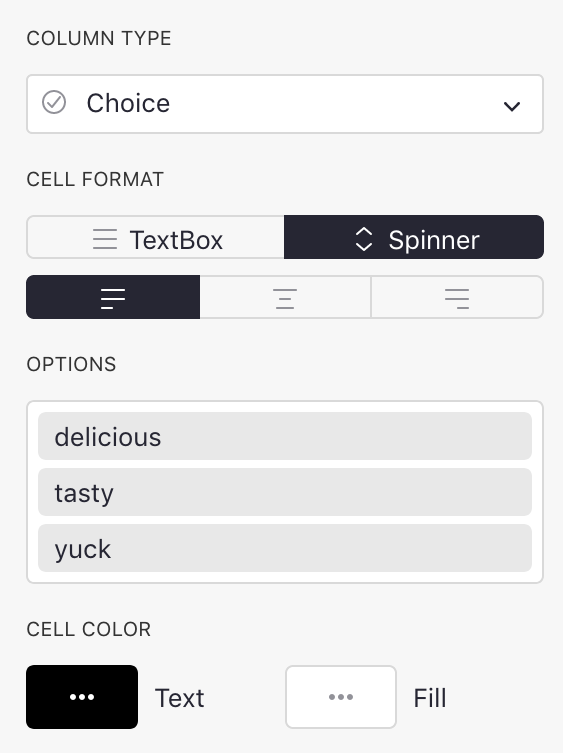
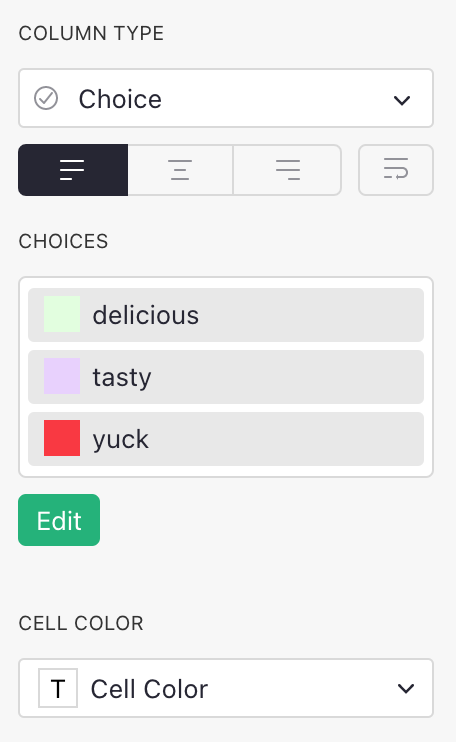
Add documentation for Choice Lists and colors

diff --git a/help/col-types.md b/help/col-types.md
@@ -97,17 +97,18 @@ Grist supports the following types:
 
 <div class='grist-mod__table'></div> <!-- For css styling via css/extra.css -->
 
-Type      | Description
---------- | -----------
-Text      | (**Default**) Any string of text.
-Numeric   | Floating point numbers.
-Integer   | Integers (whole numbers).
-Toggle    | Boolean (True / False)
-Date      | Valid date (without a time component).
-DateTime  | Valid date + time.
-Choice    | List of pre-defined valid values.
-Reference | A reference column to another table.
-Attachment| Cells where you can place files or images.
+Type        | Description
+----------- | -----------
+Text        | (**Default**) Any string of text.
+Numeric     | Floating point numbers.
+Integer     | Integers (whole numbers).
+Toggle      | Boolean (True / False)
+Date        | Valid date (without a time component).
+DateTime    | Valid date + time.
+Choice      | Single value from a list of pre-defined valid values.
+Choice List | Multiple values from a list of pre-defined valid values.
+Reference   | A reference column to another table.
+Attachment  | Cells where you can place files or images.
 
 Text columns
 --------------
@@ -205,16 +206,86 @@ Choice columns
 This type is for storing one of a set of valid values, where you get to
 specify the available values.
 
-<!-- TODO screenshot needs to be updated -->
-*![Format date](images/columns/columns-format-choice.png)*
+*![Format choice](images/columns/columns-format-choice.png)*
 {: .screenshot-half }
 
 There's an example of using this type of column in
 the [Lightweight CRM example](lightweight-crm.md#setting-other-types).
 
 If you start off with a populated text column, Grist will take all unique
-values from that column as the valid choices.  You can add or remove choices
-as you wish.
+values from that column as the valid choices.
+
+You can add or remove choices by either clicking `Edit` or on the Choices box.
+To add a choice, type its value in the text field below the other
+choices and press `Enter`. To remove a choice, click the delete icon to the
+right of the choice or select the choice by clicking on it, and then press
+`Backspace`/`Delete`. To apply/save your changes, you can either click the
+`Save` button or press `Enter`. To discard your changes, you can either
+click the `Cancel` button or press `Escape`.
+
+Clicking the color dropdown to the left of a choice will open a color picker
+for customizing the fill and text color of a choice. Changes to colors are
+reflected inside cells and throughout the rest of Grist once you save your
+changes.
+
+Choices can be re-arranged by clicking and dragging them, which affects the
+order that they are suggested when typing into a cell.
+
+The configuration editor supports many convenient keyboard shortcuts. You can
+press the `Up Arrow` and `Down Arrow` keys to navigate between selected choices;
+hold the `Shift` key to bulk select adjacent choices while clicking or using the
+arrow keys; and hold the `Command`/`Control` key to multi-select choices while
+clicking. To select all choices, you can press `Command`/`Control` + `A`.
+
+Undo and redo are also supported in the configuration editor. While your cursor
+has focus on the editor text field, you can press `Command`/`Control` + `Z` to
+undo your last change, and `Command`/`Control` + `Shift` + `Z` to redo it.
+
+The configuration editor also supports copy and paste. To copy, select
+the choices you want copied and press `Command`/`Control` + `C`. To paste,
+focus on the text field and press `Command`/`Control` + `V`. Choices are pasted
+in bulk if the clipboard contains multiple lines of text. Choices can also be
+copied from one column's configuration editor and pasted into another, which
+will copy over both the values and their configured colors.
+
+When typing into a Choice column cell, your configured choices will be shown
+in an autocomplete menu. You can either click on a choice, or use the arrow keys
+and `Enter` to add a choice to a cell. If your input is not one of the
+valid choices, Grist will display a menu option for conveniently adding it as a
+valid choice and into the cell in one step.
+
+*![Format choice](images/columns/columns-cell-choice.png)*
+{: .screenshot-half }
+
+Choice List columns
+------------
+
+This type is for storing multiple values from a set of valid values, where you
+get to specify the available values.
+
+*![Format choice](images/columns/columns-format-choice-list.png)*
+{: .screenshot-half }
+
+If you start off with a populated text column, Grist will take all unique
+values from that column as the valid choices.
+
+Choice List columns are configured the same way [Choice](#choice-columns) columns are, and
+support the same level of customization and keyboard shortcuts. They differ in
+the number of choices they allow to be entered in each cell. While Choice
+columns only allow at most one value in a cell, Choice List columns allow
+many.
+
+Like with Choice columns, when typing into a Choice List column cell, the
+valid choices will be shown in an autocomplete menu. Once you've selected
+a value, you can continue adding choices to the same cell.
+
+*![Format choice](images/columns/columns-cell-choice-list.png)*
+{: .screenshot-half }
+
+Choices can be re-arranged inside their cells by clicking and dragging them
+while the cell is being edited. You can also use the arrow keys and the
+`Delete` key to navigate and delete choices, or simply click the delete icon
+when hovering your cursor over a choice.
 
 Reference columns
 ----------
